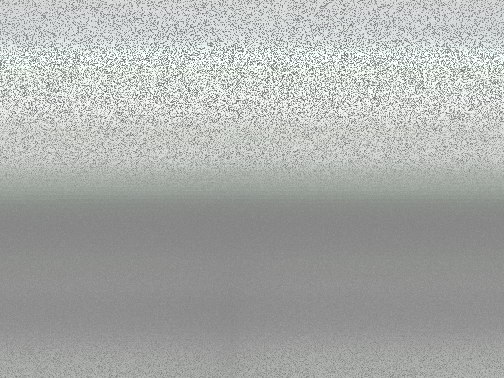
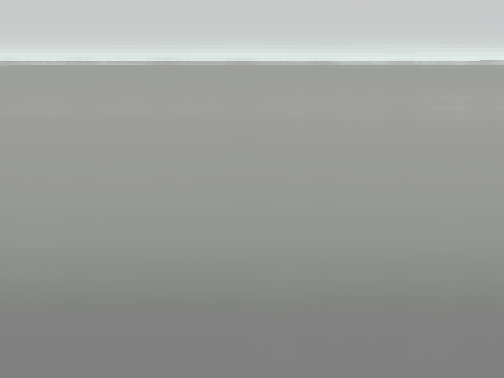
JH

diff --git a/JH_solver.py b/JH_solver.py
@@ -139,7 +139,74 @@ class Solver(object):
     # TODO : train과 test 구별하여 코드 구현, coarse와 fine 또한 구별
     # Classic Volume Rendering
     # self.classic_volume_rendering(outputs, z_vals, rays, self.device)
-    def classic_volume_rendering(self, raw, z_vals, rays, device): # input -> Network의 outputs [1024, 64, 4] + z_vals / output -> 2D color [1024, 3] -> rgb
+    # def classic_volume_rendering(self, raw, z_vals, rays, device): # input -> Network의 outputs [1024, 64, 4] + z_vals / output -> 2D color [1024, 3] -> rgb
+    #     rays_d = rays[:,1:2,:] # viewing direction -> [1024, 1, 3]
+    #     raw = raw.to(self.device) # [static_rgb_outputs, static_density_outputs, uncertainty_outputs, transient_rgb_outputs, transient_density_outputs]
+    #     z_vals = z_vals.to(self.device)
+    #     rays = rays.to(self.device)
+    #     rays_d = rays_d.to(self.device)
+        
+    #     # static
+    #     static_rgb_3d = torch.sigmoid(raw[:,:,:3]) # [1024, 64, 3]
+    #     static_rgb_3d = static_rgb_3d.to(self.device)
+    #     static_density = raw[:,:,3:4] # [1024, 64, 1]
+    #     static_density = static_density.to(self.device)
+        
+    #     # transient
+    #     transient_rgb_3d = torch.sigmoid(raw[:,:,5:8]) # [1024, 64, 3]
+    #     transient_rgb_3d = transient_rgb_3d.to(self.device)
+    #     transient_density = raw[:,:,8:] # [1024, 64, 1]
+    #     transient_density = transient_density.to(self.device)
+    #     uncertainty = raw[:,:,4:5] # [1024, 64, 1]
+    #     uncertainty = uncertainty.to(self.device)
+        
+    #     dists = z_vals[:,1:] - z_vals[:,:-1] # [1024, 63]
+    #     dists = dists.to(device)
+    #     # print(dists.shape) # [1024, 63]
+    #     dists = torch.cat([dists, (torch.Tensor([1e10]).expand(dists.shape[0], 1)).to(self.device)], dim=-1)
+    #     # print(dists.shape) # [1024, 64]
+    #     dists = dists * torch.norm(rays_d, dim=-1)
+    #     # print(dists.shape) # [1024, 64]
+    #     dists = dists.to(self.device)
+    #     active_func = nn.ReLU()
+    #     noise = torch.randn_like(dists)
+    #     noise = noise.to(self.device)
+        
+    #     # static
+    #     static_alpha = 1 - torch.exp(-active_func((static_density.squeeze() + noise) * dists))
+        
+    #     # transient
+    #     transient_alpha = 1 - torch.exp(-active_func((transient_density.squeeze() + noise) * dists))
+        
+    #     # static + transient
+    #     alpha = 1 - torch.exp(-active_func((static_density.squeeze() + transient_density.squeeze() + noise) * dists))
+    #     transmittance = torch.cumprod(torch.cat([torch.ones(alpha.shape[0], 1).to(self.device), (1 - alpha + 1e-10).to(self.device)], dim=-1), dim=-1)[:,:-1]
+        
+    #     # static
+    #     static_weights = static_alpha * transmittance
+        
+    #     # transient
+    #     transient_weights = transient_alpha * transmittance
+        
+    #     # static + transient
+    #     weights = alpha * transmittance
+        
+    #     # static 
+    #     static_rgb_2d = torch.sum(static_weights[...,None] * static_rgb_3d, dim=-2)
+    #     # transient
+    #     transient_rgb_2d = torch.sum(transient_weights[...,None] * transient_rgb_3d, dim=-2)
+    #     # static + transient
+    #     rgb_2d = static_rgb_2d + transient_rgb_2d
+        
+    #     # uncertainty
+    #     # print((transient_weights * uncertainty.squeeze()).shape) # [1024, 64]
+    #     beta = torch.sum(transient_weights * uncertainty.squeeze(), dim=1) + 0.03
+    #     # print(beta.shape) # [1024]
+        
+    #     return rgb_2d, weights, beta
+    
+    # TODO : nerf_pl의 classic volume rendering 가져와서 비교
+    def classic_volume_rendering(self, raw, z_vals, rays, device):
         rays_d = rays[:,1:2,:] # viewing direction -> [1024, 1, 3]
         raw = raw.to(self.device) # [static_rgb_outputs, static_density_outputs, uncertainty_outputs, transient_rgb_outputs, transient_density_outputs]
         z_vals = z_vals.to(self.device)
@@ -160,49 +227,35 @@ class Solver(object):
         uncertainty = raw[:,:,4:5] # [1024, 64, 1]
         uncertainty = uncertainty.to(self.device)
         
-        dists = z_vals[:,1:] - z_vals[:,:-1] # [1024, 63]
-        dists = dists.to(device)
-        # print(dists.shape) # [1024, 63]
-        dists = torch.cat([dists, (torch.Tensor([1e10]).expand(dists.shape[0], 1)).to(self.device)], dim=-1)
-        # print(dists.shape) # [1024, 64]
-        dists = dists * torch.norm(rays_d, dim=-1)
-        # print(dists.shape) # [1024, 64]
-        dists = dists.to(self.device)
-        active_func = nn.ReLU()
-        noise = torch.randn_like(dists)
-        noise = noise.to(self.device)
+        deltas = z_vals[:, 1:] - z_vals[:, :-1] # (N_rays, N_samples_-1)
+        delta_inf = 1e2 * torch.ones_like(deltas[:, :1]) # (N_rays, 1) the last delta is infinity
+        deltas = torch.cat([deltas, delta_inf], -1)  # (N_rays, N_samples_)
+        # print(deltas.shape) # [2048, 64]
+        # print(static_density.shape) # [2048, 64, 1]
+        static_alphas = 1-torch.exp(-deltas*static_density.squeeze()) # static alpha compositing
+        transient_alphas = 1-torch.exp(-deltas*transient_density.squeeze()) # transient alpha compositing
+        alphas = 1-torch.exp(-deltas*(static_density.squeeze()+transient_density.squeeze()))
         
-        # static
-        static_alpha = 1 - torch.exp(-active_func((static_density.squeeze() + noise) * dists))
+        alphas_shifted = torch.cat([torch.ones_like(alphas[:, :1]), 1-alphas], -1) # [1, 1-a1, 1-a2, ...]
+        transmittance = torch.cumprod(alphas_shifted[:, :-1], -1) # [1, 1-a1, (1-a1)(1-a2), ...]
         
-        # transient
-        transient_alpha = 1 - torch.exp(-active_func((transient_density.squeeze() + noise) * dists))
+        static_weights = static_alphas * transmittance
+        transient_weights = transient_alphas * transmittance
         
-        # static + transient
-        alpha = 1 - torch.exp(-active_func((static_density.squeeze() + transient_density.squeeze() + noise) * dists))
-        transmittance = torch.cumprod(torch.cat([torch.ones(alpha.shape[0], 1).to(self.device), (1 - alpha + 1e-10).to(self.device)], dim=-1), dim=-1)[:,:-1]
+        weights = alphas * transmittance # weights -> 'n1 n2 -> n1', 'sum'
+        weights = torch.sum(weights, dim=1)
+        static_rgb_map = static_weights.unsqueeze(dim=-1) * static_rgb_3d
+        static_rgb_map = torch.sum(static_rgb_map, dim=1)
+        transient_rgb_map = transient_weights.unsqueeze(dim=-1) * transient_rgb_3d
+        transient_rgb_map = torch.sum(transient_rgb_map, dim=1)
+
+        beta = transient_weights * uncertainty.squeeze()
+        beta = torch.sum(beta, dim=1)
         
-        # static
-        static_weights = static_alpha * transmittance
-        
-        # transient
-        transient_weights = transient_alpha * transmittance
-        
-        # static + transient
-        weights = alpha * transmittance
-        
-        # static 
-        static_rgb_2d = torch.sum(static_weights[...,None] * static_rgb_3d, dim=-2)
-        # transient
-        transient_rgb_2d = torch.sum(transient_weights[...,None] * transient_rgb_3d, dim=-2)
-        # static + transient
-        rgb_2d = static_rgb_2d + transient_rgb_2d
-        
-        # uncertainty
-        # print((transient_weights * uncertainty.squeeze()).shape) # [1024, 64]
-        beta = torch.sum(transient_weights * uncertainty.squeeze(), dim=1) + 0.03
-        # print(beta.shape) # [1024]
-        
+        # static_rgb_map = static_weights(n1 n2 -> n1 n2 1) * static_rgbs(n1 n2 c -> n1 c, sum)
+        # transient_rgb_map = transient_weights(n1 n2 -> n1 n2 1) * transient_rgbs(n1 n2 c -> n1 c, sum)
+        # beta = transient_weights * uncertainty(n1 n2 -> n1, sum)
+        rgb_2d = static_rgb_map + transient_rgb_map
         return rgb_2d, weights, beta
     
     # *****net_chunk*****
